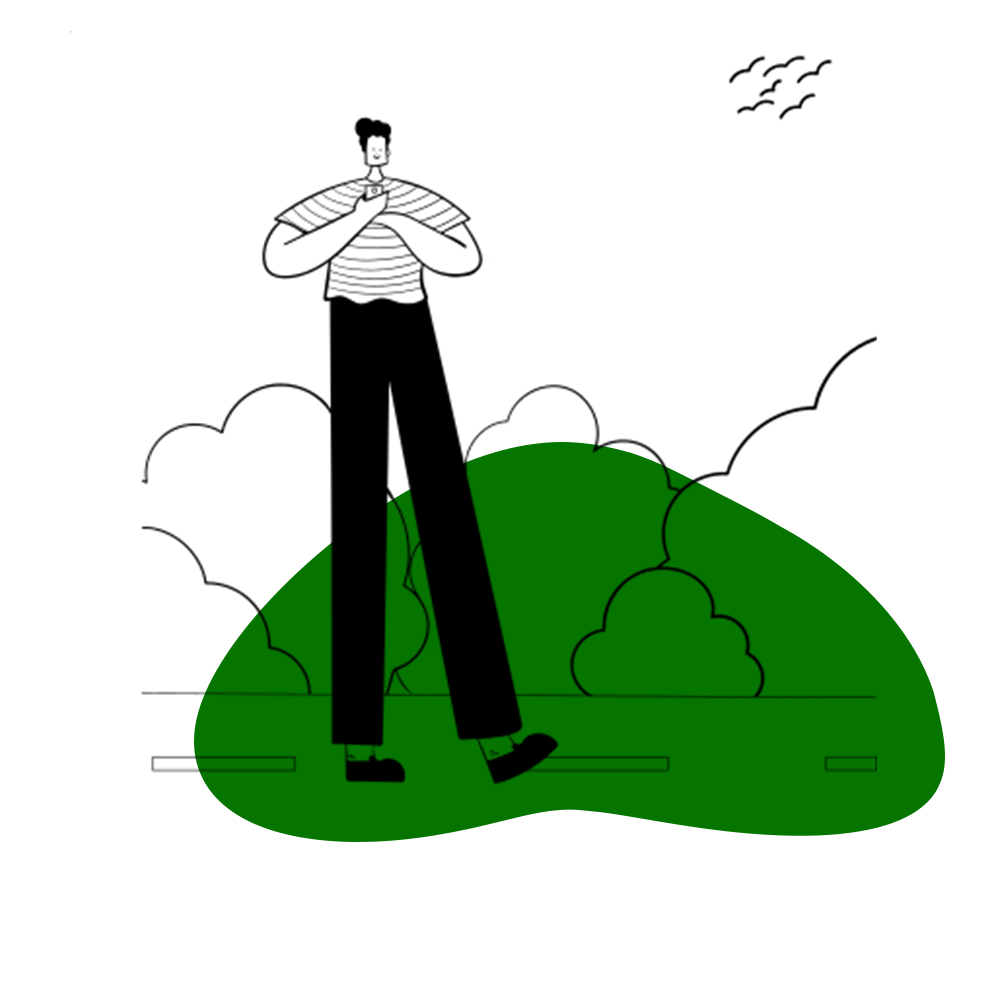
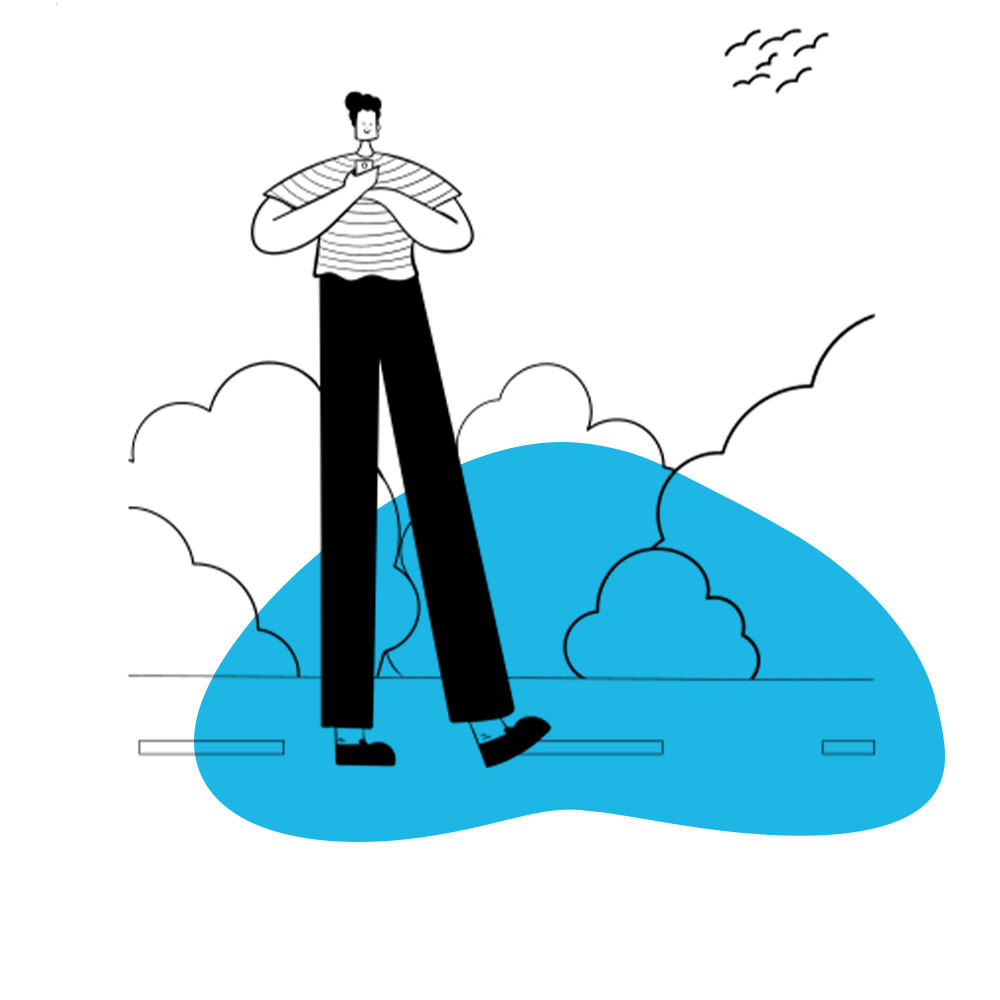
new changes

Changed region(s): [[0.124, 0.093, 0.961, 0.868], [0.713, 0.031, 0.837, 0.124]]

diff --git a/layouts/_default/volunteer.html b/layouts/_default/volunteer.html
@@ -1,0 +1,74 @@
+{{define "main"}}
+<section class="article">
+  <div class="container">
+    <div class="row">
+      <div
+        class="col-12 col-sm-12 col-md-10 col-lg-9"
+        data-aos="fade-up"
+        data-aos-delay="200"
+      >
+        <h2><strong>{{.Title}}</strong></h2>
+        <hr />
+      </div>
+    </div>
+  </div>
+</section>
+
+<!-- ======= Contact Section ======= -->
+<section id="contact" class="contact">
+  <div class="container">
+    <div class="row">
+      <div class="col-lg-9 mt-5 mt-lg-0" data-aos="fade-left">
+        <form action="#" method="post" role="form" class="php-email-form">
+          <div class="row">
+            <div class="col-md-6 form-group">
+              <input
+                type="text"
+                name="name"
+                class="form-control"
+                id="name"
+                placeholder="Your Name"
+                required
+              />
+            </div>
+            <div class="col-md-6 form-group mt-3 mt-md-0">
+              <input
+                type="email"
+                class="form-control"
+                name="email"
+                id="email"
+                placeholder="Your Email"
+                required
+              />
+            </div>
+          </div>
+          <div class="form-group mt-3">
+            <input
+              type="text"
+              class="form-control"
+              name="subject"
+              id="subject"
+              placeholder="Subject"
+              required
+            />
+          </div>
+          <div class="form-group mt-3">
+            <textarea
+              class="form-control"
+              name="message"
+              rows="5"
+              placeholder="Message"
+              required
+            ></textarea>
+          </div>
+          <div class="mt-4">
+            <button type="submit">Send Message</button>
+          </div>
+        </form>
+      </div>
+    </div>
+  </div>
+</section>
+<!-- End Contact Section -->
+
+{{end}}

diff --git a/static/assets/css/style.css b/static/assets/css/style.css
@@ -2,7 +2,7 @@
 # General
 --------------------------------------------------------------*/
 :root {
-  --yellow: #057500;
+  --yellow: #1eb6e4;
 }
 body {
   font-family: "Open Sans", sans-serif;
@@ -564,6 +564,69 @@ h6 {
 .faq .faq-container .faq-active .faq-toggle {
   transform: rotate(90deg);
   color: var(--yellow);
+}
+
+/*--------------------------------------------------------------
+# Contact
+--------------------------------------------------------------*/
+.contact {
+  padding: 0px 0px 60px 0px;
+}
+
+.contact .php-email-form {
+  width: 100%;
+  background: #fff;
+}
+
+.contact .php-email-form .form-group {
+  padding-bottom: 8px;
+}
+
+.contact .php-email-form .sent-message {
+  display: none;
+  color: #fff;
+  background: var(--yellow);
+  text-align: center;
+  padding: 15px;
+  font-weight: 600;
+}
+
+.contact .php-email-form input,
+.contact .php-email-form textarea {
+  border-radius: 0;
+  box-shadow: none;
+  font-size: 14px;
+}
+
+.contact .php-email-form input {
+  height: 44px;
+}
+
+.contact .php-email-form textarea {
+  padding: 10px 12px;
+}
+
+.contact .php-email-form button[type="submit"] {
+  background: #000;
+  border: 0;
+  padding: 10px 24px;
+  color: #fff;
+  transition: 0.4s;
+  border-radius: 50px;
+}
+
+.contact .php-email-form button[type="submit"]:hover {
+  background: var(--yellow);
+}
+
+@keyframes animate-loading {
+  0% {
+    transform: rotate(0deg);
+  }
+
+  100% {
+    transform: rotate(360deg);
+  }
 }
 
 /*--------------------------------------------------------------

diff --git a/layouts/_default/home.html b/layouts/_default/home.html
@@ -7,7 +7,6 @@
         <div class="ball-animation">
           <div class="ball"></div>
         </div>
-        <h2>Living Network</h2>
         <h1>Welcome to Harmoney</h1>
 
         <p>
@@ -35,7 +34,7 @@
         <img src="/assets/img/feedback.png" alt="feedback" class="img-fluid" />
         <div class="btn">
           <a href="/testimonials"
-            >All FEEDBACKS <i class="bi bi-caret-right"></i
+            >More Experiences <i class="bi bi-caret-right"></i
           ></a>
         </div>
       </div>
@@ -192,7 +191,6 @@
         <img src="/assets/img/dream-1.png" alt="img" class="img-fluid" />
       </div>
       <div class="col-lg-7" data-aos="fade-left" data-aos-delay="400">
-        <h3>Sub Title</h3>
         <h2>Lorem ipsum dolor sit amet.</h2>
 
         <p>
@@ -218,7 +216,6 @@
   <div class="container">
     <div class="row justify-content-center align-items-center">
       <div class="col-lg-7" data-aos="fade-right" data-aos-delay="400">
-        <h3>Sub Title</h3>
         <h2>Lorem ipsum dolor sit amet.</h2>
 
         <p>
@@ -258,7 +255,6 @@
         <img src="/assets/img/dream-3.png" alt="img" class="img-fluid" />
       </div>
       <div class="col-lg-7" data-aos="fade-left" data-aos-delay="400">
-        <h3>Sub Title</h3>
         <h2>Lorem ipsum dolor sit amet.</h2>
 
         <p>

diff --git a/layouts/partials/header.html b/layouts/partials/header.html
@@ -3,13 +3,12 @@
   <div class="container d-flex align-items-center justify-content-between">
     <div class="logo">
       <a href="/">
-        <img src="/assets/img/logo-header.png" alt="logo" class="img-fluid" />
+        <img src="/assets/img/logo.png" alt="logo" class="img-fluid" />
       </a>
     </div>
 
     <nav id="navbar" class="navbar">
       <ul>
-        <li><a href="/">Home</a></li>
         <li><a href="/faq">Your Questions</a></li>
         <li><a href="/testimonials">Your Stories</a></li>
 

diff --git a/layouts/partials/footer.html b/layouts/partials/footer.html
@@ -1,10 +1,11 @@
 <footer id="footer">
   <div class="container">
     <div class="row">
-      <div class="col-md-9">
+      <div class="col-md-8">
         <p>&copy; 2024 Harmoney. All rights reserved.</p>
       </div>
-      <div class="col-md-3">
+      <div class="col-md-4">
+        <a href="/volunteer">Volunteer</a> |
         <a href="/terms-and-conditions">Terms and Conditions</a> |
         <a href="/privacy-policy">Privacy Policy</a>
       </div>

diff --git a/content/volunteer.md b/content/volunteer.md
@@ -1,0 +1,4 @@
+---
+title: Volunteer
+layout: volunteer
+---
